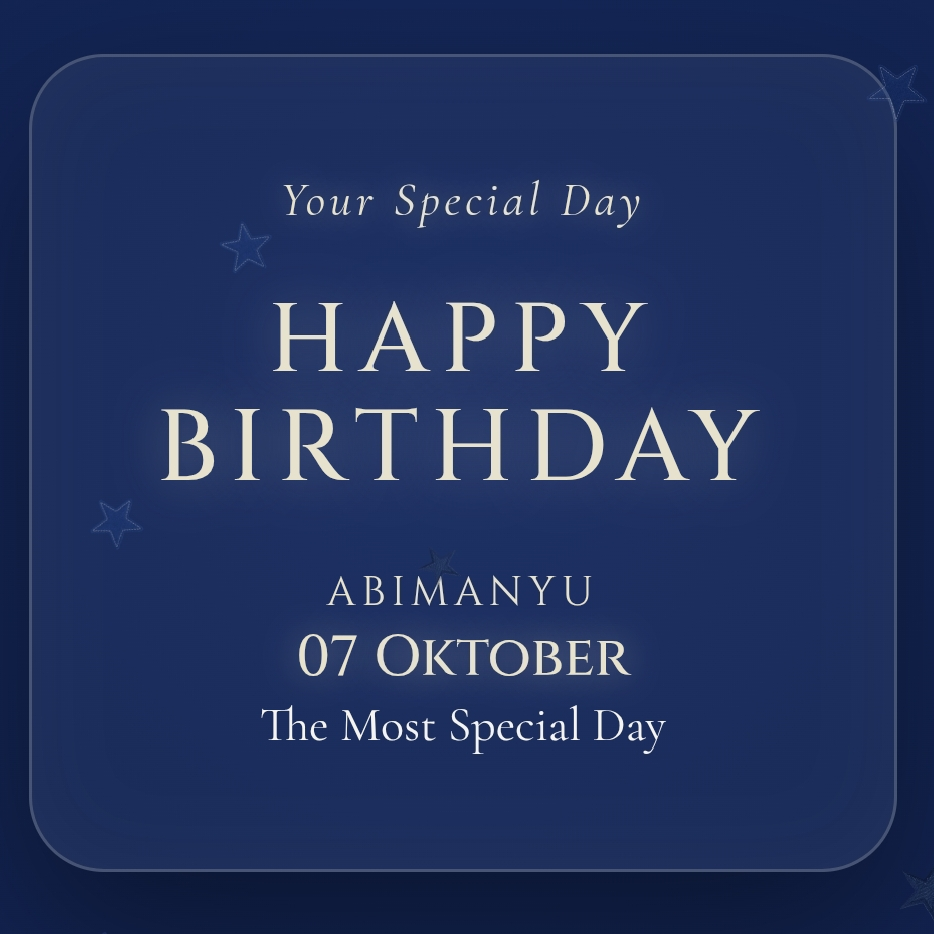
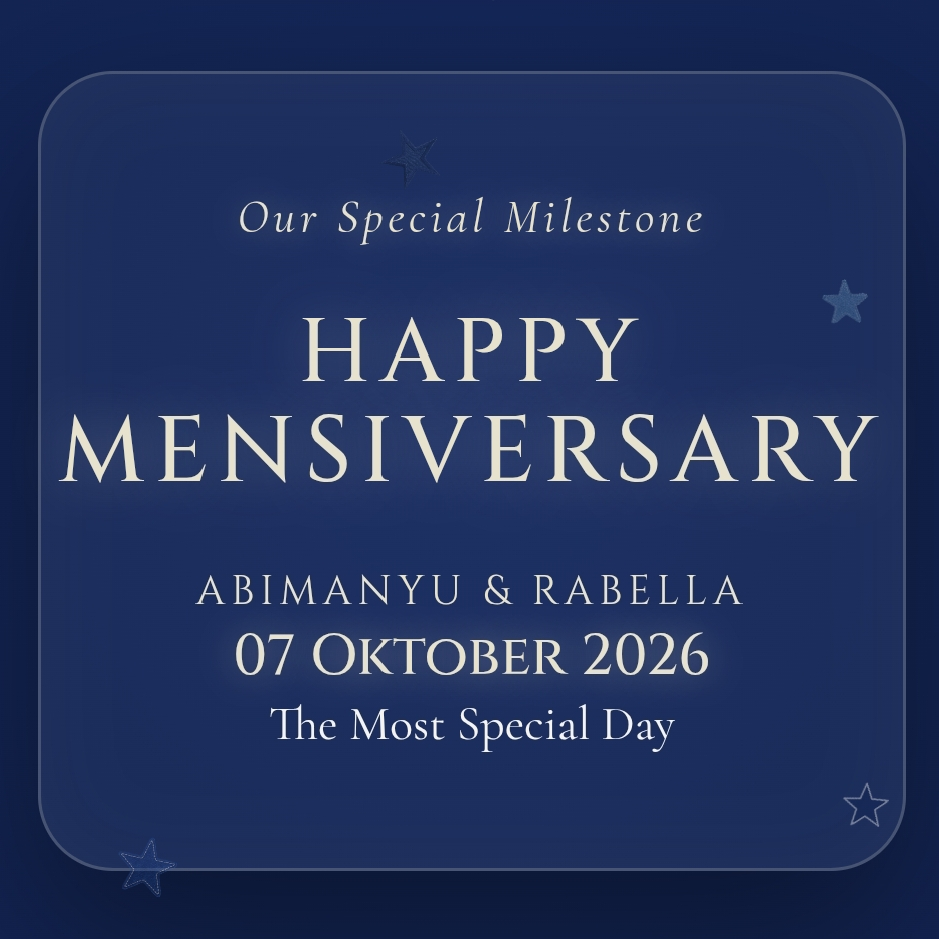
Add files via upload

diff --git a/index.html b/index.html
@@ -225,7 +225,7 @@
                     <div class="dot"></div><div class="dot"></div><div class="dot"></div>
                 </div>
                 <div class="keypad">
-                    <button class="key" onclick="App.pressKey('1')">I</button>
+                    <button class="key" onclick="App.pressKey('1')">1</button>
                     <button class="key" onclick="App.pressKey('2')">2</button>
                     <button class="key" onclick="App.pressKey('3')">3</button>
                     <button class="key" onclick="App.pressKey('4')">4</button>
@@ -238,7 +238,7 @@
                     <button class="key" onclick="App.pressKey('0')">0</button>
                     <button class="key" onclick="App.pressKey('✓')"><svg viewBox="0 0 24 24"><path d="M9 16.17L4.83 12l-1.42 1.41L9 19 21 7l-1.41-1.41z"/></svg></button>
                 </div>
-                <div class="bottom-hint">Hint: our special date</div>
+                <div class="bottom-hint">Hint: 070926</div>
             </div>
         </div>
 
@@ -258,7 +258,7 @@
                     <p class="top-tag">Our Special Milestone</p>
                     <div class="opening-title">
                         <h1 class="txt-happy">Happy</h1>
-                        <h1 class="txt-birthday">Anniversary</h1>
+                        <h1 class="txt-birthday">Mensiversary</h1>
                     </div>
                     <div class="opening-sub-wrapper">
                         <p class="opening-sub" id="display-recipient-sub">Abimanyu & Rabella</p>
@@ -306,7 +306,7 @@
                     <div style="position: relative;">
                         <div class="glass-paper">
                             <p id="letter-greeting" style="margin-bottom: 15px; font-size: 12pt; font-family: 'Cinzel', serif; color: #E7E2CE; text-shadow: 0 0 6px rgba(231,226,206,0.4);"></p>
-                            <p style="margin-bottom: 14px; color: rgba(245,244,240,0.92);">Happy Anniversary ya sayang! Nggak terasa kita udah melewati banyak hal bersama. Terimakasih banyak sudah membersamai Rabella sampai detik ini, menjadi tempat bersandar paling nyaman, dan selalu sabar menghadapi Rabella.</p>
+                            <p style="margin-bottom: 14px; color: rgba(245,244,240,0.92);">Happy Mensiversary ya sayang! Nggak terasa waktu berjalan begitu cepat dan kita terus melewati banyak hal indah bersama. Terimakasih banyak sudah membersamai Rabella sampai detik ini, menjadi tempat bersandar paling nyaman, dan selalu sabar menghadapi Rabella.</p>
                             <p style="margin-bottom: 14px; color: rgba(245,244,240,0.92);">Semoga hubungan kita selalu diberkahi kebahagiaan, dipenuhi tawa, dan terus saling menguatkan dalam kondisi apapun. Let's create more wonderful memories together :)</p>
                             <p style="margin-bottom: 14px; font-style: italic; color: #E7E2CE; text-shadow: 0 0 6px rgba(231,226,206,0.35);">I love you more than all the stars in the sky.</p>
                             <div style="text-align: right; font-family: 'Cinzel', serif; font-size: 9.5pt; color: rgba(231,226,206,0.75); margin-top: 15px;">
@@ -421,7 +421,7 @@
                 <img src="kue.png" alt="Cake" style="width: 65px; height: 65px; object-fit: contain;" loading="lazy" onerror="this.style.display='none'; this.nextElementSibling.style.display='inline-block';">
                 <span style="display:none;">🎂</span>
             </div>
-            <h2>Happy Anniversary!</h2>
+            <h2>Happy Mensiversary!</h2>
             <p id="closing-recipient" style="font-family:'Comfortaa',sans-serif; font-size:9.5pt; color:rgba(255,255,255,0.75); margin-bottom:25px;"></p>
             <button class="btn-close-box" onclick="App.toggleClosingBox(false)">Close ✕</button>
         </div>
